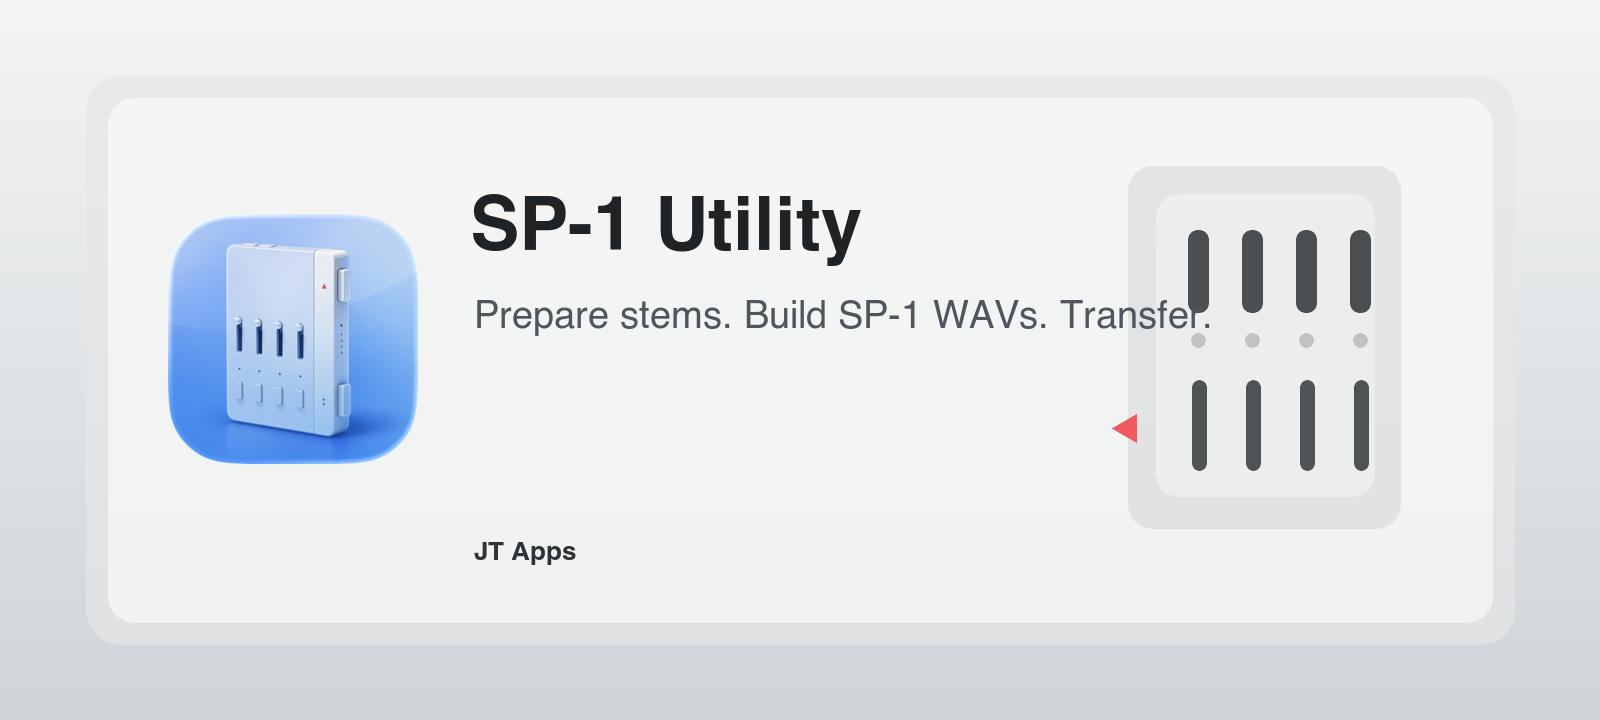
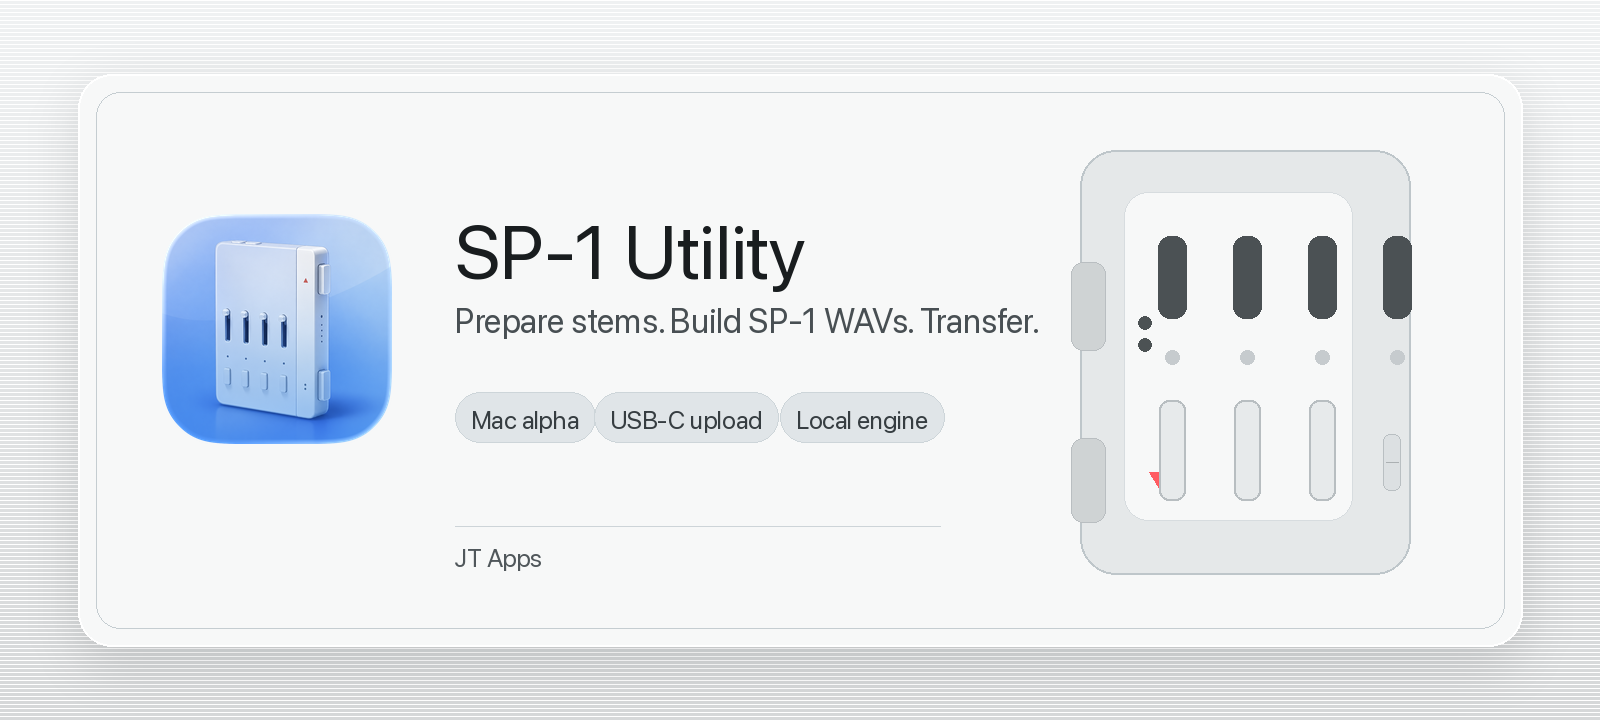
Refresh private alpha release package

Changed region(s): [[0.0938, 0.275, 0.9062, 0.7333], [0.0, 0.3667, 1.0, 1.0], [0.2812, 0.7333, 0.375, 0.7944]]

diff --git a/README.md b/README.md
@@ -4,17 +4,20 @@
 
 # SP-1 Utility
 
-**SP-1 Utility** is a native macOS app by [JT Apps](https://jtapps.xyz) for
+[![Mac alpha](https://img.shields.io/badge/Mac-alpha-1f6feb?style=for-the-badge)](https://github.com/JT-Apps/sp-1-utility/releases)
+[![Publisher](https://img.shields.io/badge/JT%20Apps-jtapps.xyz-2b3137?style=for-the-badge)](https://jtapps.xyz)
+[![Status](https://img.shields.io/badge/private%20alpha-testing-2ea44f?style=for-the-badge)](docs/ALPHA_TESTING.md)
+
+**SP-1 Utility** is a native Mac app from [JT Apps](https://jtapps.xyz) for
 preparing stem albums and transferring them to an SP-1 over USB-C.
 
-It is built for the practical SP-1 workflow: bring in songs, create
-upload-ready 24-bit 48 kHz eight-channel WAVs, preview the results, then send a
-full album plan to the device with clear progress and recovery status.
+It is built for the practical SP-1 workflow: add songs, create upload-ready
+24-bit 48 kHz eight-channel WAVs, preview the results, and send an album plan to
+the device with transfer status you can actually read.
 
-> Alpha note: this project is still in hands-on hardware testing. Long transfers
-> can take hours, and tester reports are most useful when they include the app's
-> transfer status, the song title, and whether the row ended as Done or Needs
-> resend.
+> **Alpha note:** this is a private testing build. Long transfers can take
+> hours. The best reports include the song title, the row status, and a
+> screenshot of the transfer panel.
 
 ## Highlights
 
@@ -25,17 +28,30 @@ full album plan to the device with clear progress and recovery status.
 - Transfer albums over USB-C with confirmed-sector progress and retry recovery.
 - Monitor SP-1 faders, buttons, mode, power, and album status while connected.
 
-## App Flow
+## Download
 
-| Step | What happens |
+Open the latest draft release and download:
+
+- `SP-1 Utility.dmg`
+- `SP-1 Utility.dmg.sha256`
+
+Install it like a normal Mac app: open the DMG, drag **SP-1 Utility** into
+**Applications**, then launch it from Applications.
+
+No terminal, Homebrew, Python setup, or coding tools are required for normal
+use. The local processing engine is bundled with the app.
+
+## Three Screens
+
+| Area | What it does |
 | --- | --- |
-| Prepare | Add songs or stem folders, set BPM, and create SP-1-ready output. |
-| Library | Review prepared tracks, play previews, and inspect diagnostics. |
+| Prepare | Add songs or four-stem folders, set BPM, and create SP-1-ready output. |
+| Library | Review prepared tracks, play master and stem previews, and inspect diagnostics. |
 | Upload | Build the album plan, confirm device use, and transfer ready songs. |
 
 ## Output Folders
 
-Prepared files are written under the export folder selected in the app.
+Prepared files are written under the export folder selected in the app:
 
 | Folder | Purpose |
 | --- | --- |
@@ -57,18 +73,20 @@ Use the Library preview controls for normal stereo listening.
 - Editing a completed row marks it for resend because the device copy no longer
   matches the local album plan.
 
-## Download
+## Alpha Testing
 
-The alpha is distributed as a Mac DMG. Open the DMG, drag **SP-1 Utility** into
-**Applications**, and launch it like a normal Mac app.
+See [Alpha Testing](docs/ALPHA_TESTING.md) for the test checklist and issue
+reporting format.
 
-No terminal, Homebrew, Python setup, or coding tools are required for normal
-use. The local processing engine is bundled with the app.
+This repository is currently used for private alpha distribution and tester
+feedback. Source code is not published here.
 
-See [docs/GITHUB_RELEASE_DRAFT.md](docs/GITHUB_RELEASE_DRAFT.md) for the public
-release description and [docs/ALPHA_TESTING.md](docs/ALPHA_TESTING.md) for the
-tester checklist.
+## Links
+
+- [Latest release](https://github.com/JT-Apps/sp-1-utility/releases)
+- [Alpha testing guide](docs/ALPHA_TESTING.md)
+- [JT Apps](https://jtapps.xyz)
 
 ## Credits
 
-SP-1 Utility is developed by [JT Apps](https://jtapps.xyz).
+SP-1 Utility is published by [JT Apps](https://jtapps.xyz).

diff --git a/docs/GITHUB_RELEASE_DRAFT.md b/docs/GITHUB_RELEASE_DRAFT.md
@@ -1,29 +1,22 @@
-# GitHub Release Draft
-
-Use this as the public release description when attaching the DMG.
+# Release Copy
 
 ## Title
 
 SP-1 Utility Alpha for Mac
 
-## Short Description
+## Body
 
-SP-1 Utility is a Mac app from JT Apps for preparing stem-based songs and
-transferring them to an SP-1 over USB-C.
+### SP-1 Utility Alpha
+
+SP-1 Utility is a Mac app from JT Apps for preparing stem-based songs,
+previewing the result, and transferring an album plan to an SP-1 over USB-C.
 
 No terminal, Homebrew, Python setup, or coding tools are required. The app
 ships with its local processing engine bundled inside the download.
 
-## Release Body
-
-### SP-1 Utility Alpha
-
-This is an early Mac-only alpha build for SP-1 owners who want a simpler way to
-prepare songs, preview stems, and transfer an album plan over USB-C.
-
 Download the DMG, open it, and drag **SP-1 Utility** into **Applications**.
 
-### What It Does
+### What it does
 
 - Prepares regular songs into SP-1-ready stem files.
 - Accepts existing four-stem folders when you already have separated stems.
@@ -35,13 +28,13 @@ Download the DMG, open it, and drag **SP-1 Utility** into **Applications**.
 - Resumes from confirmed progress when a recoverable transfer stall happens.
 - Shows a live SP-1 panel for faders, buttons, power, and mode while connected.
 
-### Built For Non-Technical Use
+### Built for non-technical use
 
 The app is packaged as a normal Mac download. You do not need to install
 developer tools, Homebrew, Python, command-line packages, or audio utilities.
 Everything needed for normal app use is included in the app bundle.
 
-### Important Alpha Notes
+### Important alpha notes
 
 - This is an alpha build, so please test with a small album first.
 - Large transfers can take hours. Keep the SP-1 plugged in and keep the Mac
@@ -53,7 +46,7 @@ Everything needed for normal app use is included in the app bundle.
   eight-channel device files. Use the app's Library preview for normal stereo
   listening.
 
-### Mac Requirements
+### Mac requirements
 
 - macOS 14 or newer.
 - Apple silicon Mac recommended.
@@ -62,12 +55,10 @@ Everything needed for normal app use is included in the app bundle.
 
 ### Download
 
-Download:
-
 - `SP-1 Utility.dmg`
-- `SP-1 Utility.dmg.sha256` for checksum verification, if you want it.
+- `SP-1 Utility.dmg.sha256`
 
-### Reporting Issues
+### Reporting issues
 
 When reporting an issue, include:
 

diff --git a/SUPPORT.md b/SUPPORT.md
@@ -1,0 +1,13 @@
+# Support
+
+SP-1 Utility is in private alpha testing.
+
+For bugs, use the repository issue template and include:
+
+- macOS version.
+- App build/date.
+- Song title involved.
+- Row status shown in the app.
+- Transfer panel screenshot, if upload was involved.
+
+For general JT Apps contact, visit [jtapps.xyz](https://jtapps.xyz).

diff --git a/docs/ALPHA_TESTING.md b/docs/ALPHA_TESTING.md
@@ -8,6 +8,7 @@ This checklist is for early testers running SP-1 Utility on a real SP-1.
 - Plug the SP-1 into USB-C and put it in transfer mode.
 - Keep the Mac awake for long transfers.
 - Use short test albums first, then move to larger albums.
+- If anything feels stuck, take a screenshot before restarting.
 
 ## What To Test
 
@@ -56,6 +57,13 @@ When reporting an issue, include:
 - Transfer panel text if a transfer was running.
 - Whether the SP-1 itself appeared to keep writing.
 - Any Console or trace file the app produced.
+
+## Good Screenshots To Attach
+
+- The toolbar connection chip.
+- The Upload transfer panel.
+- The song row that says Done, Ready, Needs resend, Failed, or Missing file.
+- The Library detail panel if the issue is about playback or stems.
 
 ## Known Alpha Limits
 

diff --git a/.github/ISSUE_TEMPLATE/bug_report.md b/.github/ISSUE_TEMPLATE/bug_report.md
@@ -41,3 +41,8 @@ What happened instead?
 ## Files Or Logs
 
 Attach screenshots, Console output, or trace files when available.
+
+## Notes
+
+Please avoid attaching copyrighted audio files unless they are necessary and you
+have permission to share them.

diff --git a/CHANGELOG.md b/CHANGELOG.md
@@ -2,9 +2,10 @@
 
 ## Alpha Candidate
 
+- Added a private GitHub alpha package with DMG download, tester guide, and issue template.
+- Added a hardware-inspired README hero for the release repo.
 - Added confirmed-sector transfer progress and automatic recovery reporting.
 - Improved Upload rows so album transfer and selected-song editing are clearly
   separate.
 - Added Library preview support for master and individual stems.
 - Added clean display names while retaining collision-safe prepared filenames.
-- Added a polished GitHub README, alpha tester guide, and issue template.